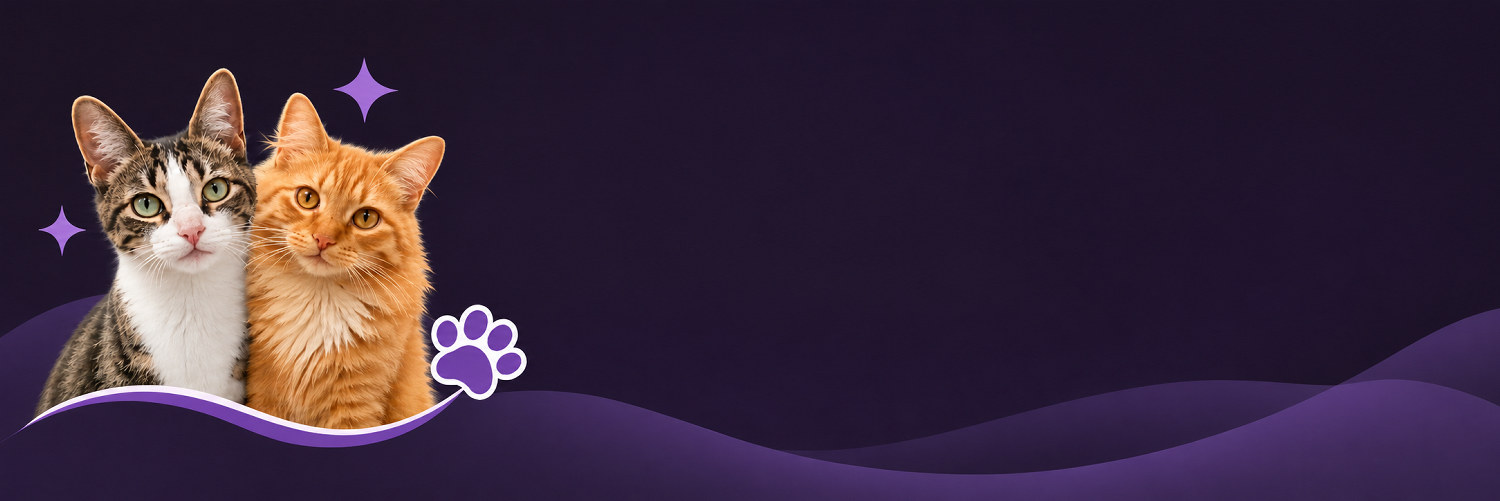
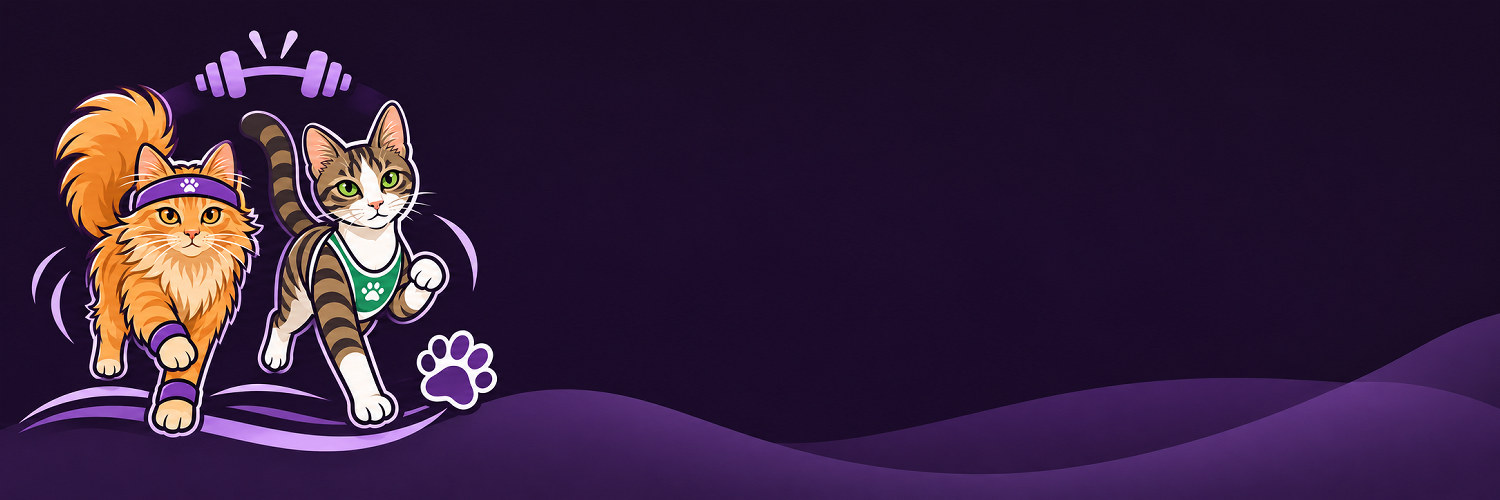
feat: add new cat artwork and animated splash screen

diff --git a/src/components/AnimatedSplash.tsx b/src/components/AnimatedSplash.tsx
@@ -1,0 +1,74 @@
+import { Image } from 'expo-image';
+import * as SplashScreen from 'expo-splash-screen';
+import { useCallback, useEffect, useRef, useState } from 'react';
+import { Animated, Dimensions, Easing, StyleSheet, Text, View } from 'react-native';
+import { useApp } from '@/store/useApp';
+import { useTheme } from './ThemeProvider';
+
+export const SPLASH_LILAC = '#EFDFFC';
+const MIN_VISIBLE_MS = 2200;
+const FADE_MS = 380;
+const GIF_SOURCE_SIZE = 508;
+const GIF_WIDTH = Math.min(340, Dimensions.get('window').width - 32);
+const CROP_TOP = Math.round((GIF_WIDTH * 92) / GIF_SOURCE_SIZE);
+const CROP_HEIGHT = Math.round((GIF_WIDTH * (440 - 92)) / GIF_SOURCE_SIZE);
+
+export function AnimatedSplash() {
+  const { colors, isDark } = useTheme();
+  const loaded = useApp((s) => s.loaded);
+  const [done, setDone] = useState(false);
+  const [minTimePassed, setMinTimePassed] = useState(false);
+  const [opacity] = useState(() => new Animated.Value(1));
+  const [pop] = useState(() => new Animated.Value(0));
+
+  const revealed = useRef(false);
+
+  const reveal = useCallback(() => {
+    if (revealed.current) return;
+    revealed.current = true;
+    SplashScreen.hide();
+    Animated.timing(pop, { toValue: 1, duration: 420, easing: Easing.out(Easing.back(1.4)), useNativeDriver: true }).start();
+  }, [pop]);
+
+  useEffect(() => {
+    const fallback = setTimeout(reveal, 600);
+    const min = setTimeout(() => setMinTimePassed(true), MIN_VISIBLE_MS);
+    return () => {
+      clearTimeout(fallback);
+      clearTimeout(min);
+    };
+  }, [reveal]);
+
+  useEffect(() => {
+    if (!loaded || !minTimePassed) return;
+    Animated.timing(opacity, { toValue: 0, duration: FADE_MS, useNativeDriver: true }).start(() => setDone(true));
+  }, [loaded, minTimePassed, opacity]);
+
+  if (done) return null;
+
+  const bg = isDark ? colors.bg : SPLASH_LILAC;
+  const scale = pop.interpolate({ inputRange: [0, 1], outputRange: [0.9, 1] });
+
+  return (
+    <Animated.View pointerEvents="none" style={[StyleSheet.absoluteFill, styles.wrap, { backgroundColor: bg, opacity }]}>
+      <Animated.View style={{ alignItems: 'center', gap: 14, opacity: pop, transform: [{ scale }] }}>
+        <View style={{ width: GIF_WIDTH, height: CROP_HEIGHT, overflow: 'hidden', borderRadius: isDark ? 28 : 0, backgroundColor: SPLASH_LILAC }}>
+          <Image
+            source={require('../../assets/splash-cats.gif')}
+            style={{ position: 'absolute', top: -CROP_TOP, width: GIF_WIDTH, height: GIF_WIDTH }}
+            contentFit="contain"
+            autoplay
+            onLoad={reveal}
+            accessibilityLabel="Os gatos do MeowFit se alongando"
+          />
+        </View>
+        <Text style={{ fontSize: 30, fontWeight: '800', color: isDark ? colors.text : '#3B1A5E' }}>MeowFit</Text>
+        <Text style={{ fontSize: 15, color: isDark ? colors.muted : '#76658F' }}>Alongando as patinhas…</Text>
+      </Animated.View>
+    </Animated.View>
+  );
+}
+
+const styles = StyleSheet.create({
+  wrap: { alignItems: 'center', justifyContent: 'center', zIndex: 1000, elevation: 1000 },
+});

diff --git a/src/app/_layout.tsx b/src/app/_layout.tsx
@@ -10,10 +10,13 @@ import { useApp } from '@/store/useApp';
 import { refreshWidgets } from '@/widgets';
 import { ThemeProvider, useTheme } from '@/components/ThemeProvider';
 import { DialogHost } from '@/components/DialogHost';
+import { AnimatedSplash } from '@/components/AnimatedSplash';
+import * as SplashScreen from 'expo-splash-screen';
 import * as SystemUI from 'expo-system-ui';
 import { NavigationBar } from 'expo-navigation-bar';
 
 setupNotifications();
+SplashScreen.preventAutoHideAsync().catch(() => {});
 
 function Gate() {
   const { colors } = useTheme();
@@ -108,6 +111,7 @@ export default function RootLayout() {
         <ThemedStatusBar />
         <Gate />
         <DialogHost />
+        <AnimatedSplash />
       </ThemeProvider>
     </SQLiteProvider>
   );

diff --git a/src/components/HeaderBanner.tsx b/src/components/HeaderBanner.tsx
@@ -3,19 +3,19 @@ import { useSafeAreaInsets } from 'react-native-safe-area-context';
 import Svg, { Line } from 'react-native-svg';
 import { useTheme } from './ThemeProvider';
 
-const ART_RATIO = 1500 / 501;
+const ART_RATIO = 3;
 
 const VARIANTS = {
   light: {
     art: require('../../assets/header.jpg'),
-    top: '#EFDFFC',
+    top: '#F0E3FE',
     ink: '#3B1A5E',
     inkSoft: '#76658F',
     accent: '#8B5CD6',
   },
   dark: {
     art: require('../../assets/header-dark.jpg'),
-    top: '#1D1429',
+    top: '#1A0D26',
     ink: '#F1EAFB',
     inkSoft: '#B5A8CC',
     accent: '#B48CF2',
